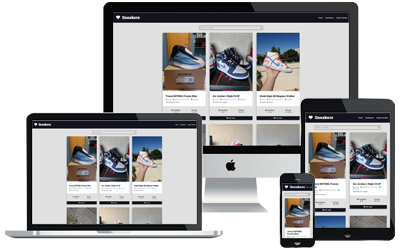
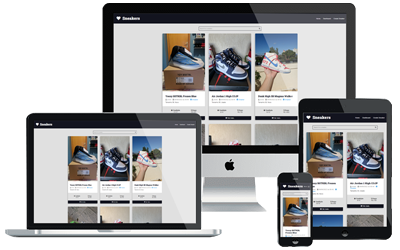
Creating contact page

Changed region(s): [[0.0, 0.0, 0.99, 1.0], [0.45, 0.364, 0.48, 0.392], [0.45, 0.308, 0.48, 0.336]]

diff --git a/personal_projects/templates/personal_projects/pages/contact.html b/personal_projects/templates/personal_projects/pages/contact.html
@@ -1,0 +1,52 @@
+{% extends 'global/base.html' %}
+{% load static %}
+
+{% block title %}Contact |{% endblock title %}
+
+{% block content %}
+<div class="contact-container">
+
+    <div class="personal-image">
+        <div class="my-image">
+            <img src="{% static 'global/img/profile-image.png' %}" alt="computer-image">
+        </div>        
+    </div>
+
+    <div class="contact-info">
+        <div class="contact-text">
+            <h1>Contact me</h1>
+            <div class="contact-links">
+                <div class="info">
+                    <a href='https://github.com/andrefonseca99' target="_blank">
+                        <img src="{% static 'global/img/github-icon.png' %}" alt="github-icon">
+                    </a>
+                    <h3>github.com/andrefonseca99</h3>
+                </div>
+
+                <div class="info">
+                    <a href='//wa.me/5531993434201' target="_blank">
+                        <img src="{% static 'global/img/wpp-icon.png' %}" alt="wpp-icon">
+                    </a>
+                    <h3>+55 31 993434201</h3>
+                </div>
+
+                <div class="info">
+                    <a href='//mailto:andrepfonseca19@gmail.com' target="_blank">
+                        <img src="{% static 'global/img/email-icon.png' %}" alt="email-icon">
+                    </a>
+                    <h3>andrepfonseca19@gmail.com</h3>
+                </div>
+
+                <div class="info">
+                    <a href='https://www.linkedin.com/in/andrepereirafonseca/' target="_blank">
+                        <img src="{% static 'global/img/linkedin-icon.png' %}" alt="linkedin-icon">
+                    </a>
+                    <h3>linkedin.com/andrepereirafonseca</h3>
+                </div>
+            </div>
+        </div>
+    </div>
+
+</div>
+
+{% endblock content %}

diff --git a/base_static/global/css/styles.css b/base_static/global/css/styles.css
@@ -33,12 +33,12 @@ html::-webkit-scrollbar {
 
 html::-webkit-scrollbar-thumb {
     background-color: var(--color-primary-pink);
-    border-radius: 100vw;
+    border-radius: 90vw;
 }
 
 html::-webkit-scrollbar-track {
     background-color: var(--color-primary-dark);
-    border-radius: 100vw;
+    border-radius: 90vw;
     margin-top: 6rem;
 }
 
@@ -87,7 +87,7 @@ a {
     display: flex;
     align-items: center;
     justify-content: space-between;
-    width: 100vw;
+    width: 95vw;
     margin: 0rem auto;
     padding: 1rem;
 }
@@ -183,7 +183,7 @@ a {
 
 .computer img {
     max-height: 40rem;
-    max-width: 100%;
+    max-width: 90%;
 }
 
 .computer img {
@@ -340,6 +340,52 @@ a {
     max-width: 2rem;
 }
 
+/* Contact */
+
+.contact-container {
+    background: red;
+    display: grid;
+    grid-template-columns: 1fr 1fr;
+    min-height: 90vh;
+}
+
+.contact-text {
+    padding: 1rem;
+}
+
+.contact-links {
+    display: flex;
+    flex-direction: column;
+    align-items: flex-start;
+    justify-content: center;
+    max-width: 100%;
+}
+
+.contact-info h3 {
+    color: var(--color-primary-white);
+}
+
+.contact-info {
+    padding: 15rem;
+}
+
+.info {
+    display: flex;
+    padding: 1rem;
+    gap: .8rem;
+    align-items: center;
+    justify-content: center;
+}
+
+.info img {
+    max-width: 3.2rem;
+    max-height: 3.2rem;
+}
+
+.personal-image {
+    background: green;
+}
+
 @supports(-webkit-overflow-scrolling: touch){
     .hero-inner {
         clip: unset;
@@ -371,8 +417,7 @@ a {
         display: flex;
         flex-direction: column;
         align-content: flex-start;
-        padding-left: 1rem;
-        padding-bottom: 2rem;
+        padding: 2rem;
         gap: .1rem;
     }
     .computer {

diff --git a/personal_projects/templates/personal_projects/pages/work.html b/personal_projects/templates/personal_projects/pages/work.html
@@ -46,7 +46,7 @@
     <div class="project-container">
         <div class="project-img">
             <a href='https://sneakers.andrepf.com/' target="_blank">
-                <img src="{% static 'global/img/sneakers_devices.png' %}" alt="sneakers_devices">
+                <img src="{% static 'global/img/portfolio_devices.png' %}" alt="sneakers_devices">
             </a>
         </div>
         <div class="project-desc">

diff --git a/base_templates/global/partials/header.html b/base_templates/global/partials/header.html
@@ -30,7 +30,7 @@
                 <li><a href="/">home</a></li>
                 <li><a href="/about-me/">about me</a></li>
                 <li><a href="/my-work/">my work</a></li>
-                <li><a href="/">contact</a></li>
+                <li><a href="/contact/">contact</a></li>
             </ul>
         </nav>
     </div>

diff --git a/personal_projects/urls.py b/personal_projects/urls.py
@@ -6,4 +6,5 @@ urlpatterns = [
     path('', views.home, name="home"),
     path('about-me/', views.about, name="about"),
     path('my-work/', views.work, name="work"),
+    path('contact/', views.contact, name="contact"),
 ]

diff --git a/personal_projects/views.py b/personal_projects/views.py
@@ -10,3 +10,6 @@ def about(request):
 
 def work(request):
     return render(request, 'personal_projects/pages/work.html')
+
+def contact(request):
+    return render(request, 'personal_projects/pages/contact.html')
